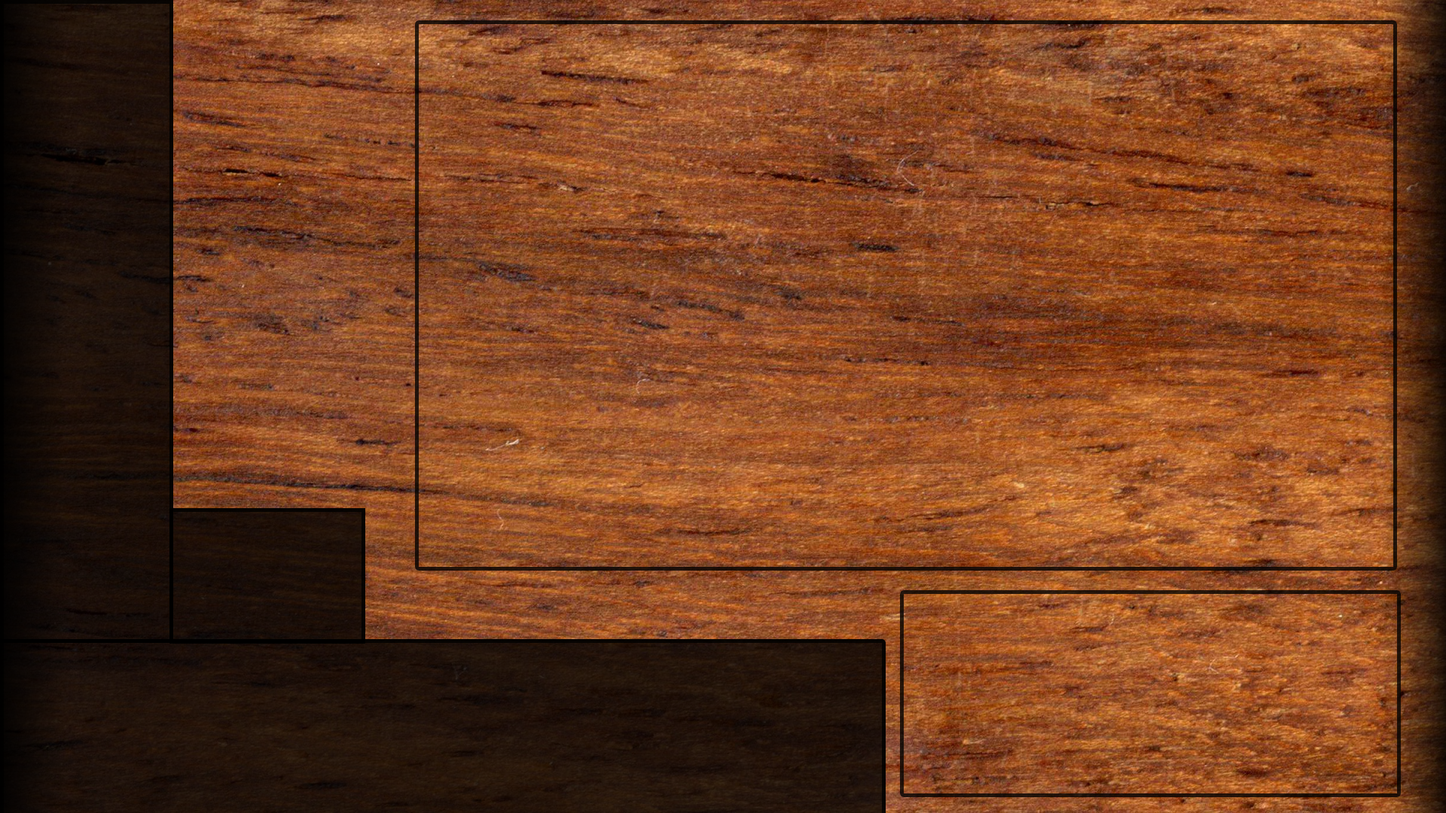
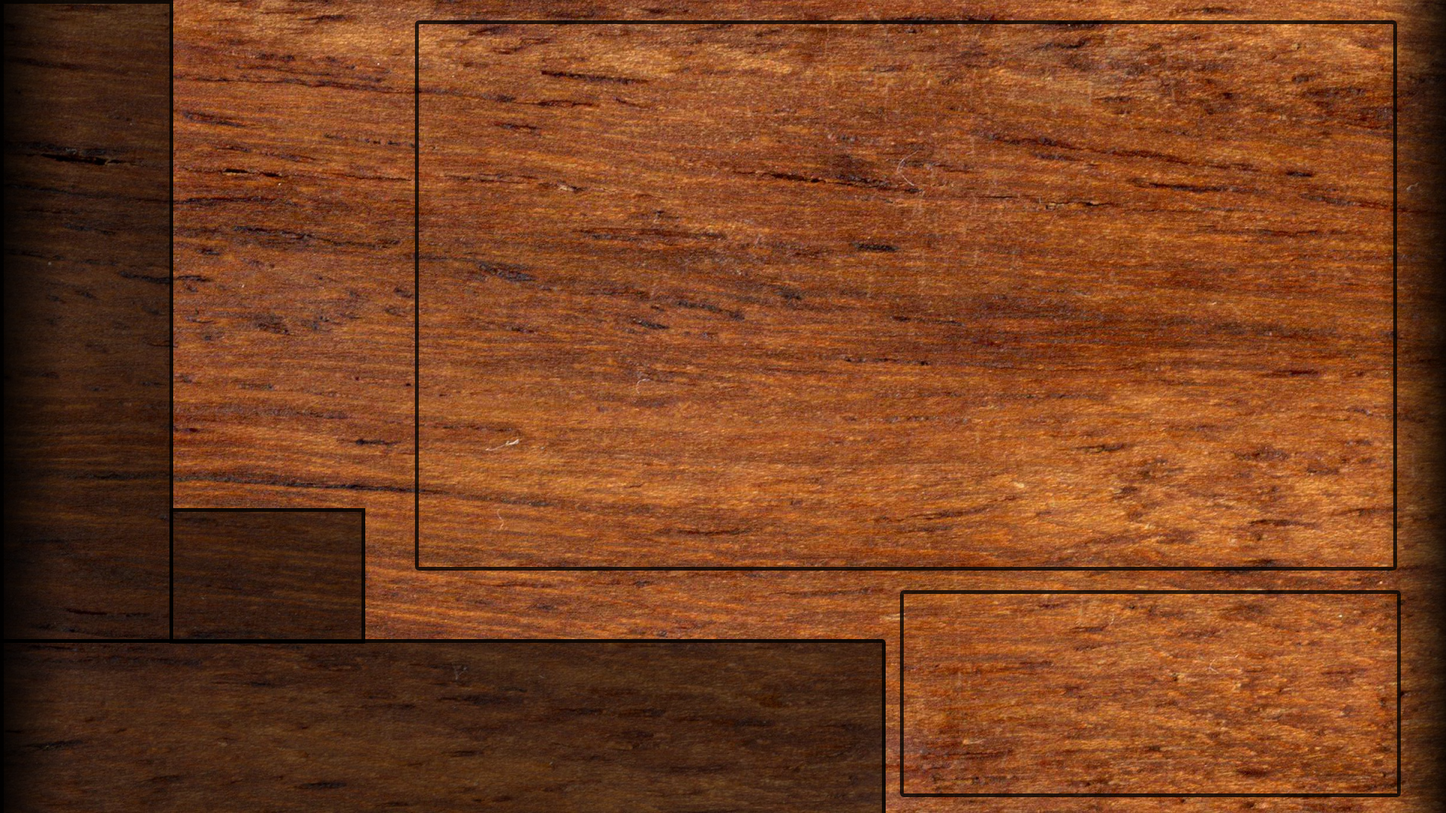
Lots of updates
* Fix cycleplayerturn not working over RMI
* Diff state to see if we need to switch scenes now works consistently
* Update gamescreen background to be a bit lighter
* Add mechanics to see if it's the last turn, and when the last turn is over
* go to finished screen (finish screen NYI)
* Don't initialize the GameState when instantiating a GameStore object
* Optimize routestore a bit
* Stop logging card path every time for PlayerCard component
* Change access level for some methods

Changed region(s): [[0.0, 0.0, 0.625, 1.0]]

diff --git a/src/main/java/client/GameClient.java b/src/main/java/client/GameClient.java
@@ -5,7 +5,6 @@ import game.GameStore;
 import game.GameStoreProvider;
 import game.actions.Action;
 import game.actions.AddPlayerAction;
-import game.actions.ChangeStateAction;
 import javafx.application.Platform;
 import org.apache.logging.log4j.LogManager;
 import org.apache.logging.log4j.Logger;
@@ -30,7 +29,7 @@ public class GameClient extends UnicastRemoteObject implements GameStoreClient {
     private transient SceneListener sceneListener;
     private transient Action lastAction;
 
-    public GameClient(String ip, SceneListener sceneListener) throws RemoteException {
+    GameClient(String ip, SceneListener sceneListener) throws RemoteException {
         super();
         this.sceneListener = sceneListener;
 
@@ -44,7 +43,7 @@ public class GameClient extends UnicastRemoteObject implements GameStoreClient {
 
     }
 
-    public GameClient(GameStoreServer server, SceneListener sceneListener) throws RemoteException {
+    GameClient(GameStoreServer server, SceneListener sceneListener) throws RemoteException {
         super();
         this.sceneListener = sceneListener;
 
@@ -62,39 +61,38 @@ public class GameClient extends UnicastRemoteObject implements GameStoreClient {
     public void onGameStoreReceived(GameStore newStore) {
         Log.debug("Received new gamestore");
 
+        // Over RMI this would return false, on the host this returns true.. :@     Solution: Maybe create a method to clone the gamestore
+        Log.debug("Is the newStore the same as the old one? this is weird prob: {}", newStore == storeObservable.getValue());
+
         if (GameStoreProvider.getPlayer() != null) {
             // Update the player on the GameStoreProvider
             GameStoreProvider.setPlayer(newStore.getPlayerById(GameStoreProvider.getPlayer().getId()));
             Log.debug("Updated player");
         }
 
-        if (newStore.getGameState() != storeObservable.getValue().getGameState()) {
-            Log.debug("Received new state, switching..");
-            sceneListener.onSceneChange(newStore.getGameState());
-        }
 
         // Process previous actions' response
         if (lastAction != null) {
             Platform.runLater(() -> {
-                processLastActionResponse();
+                processLastActionResponse(newStore);
                 lastAction = null;
             });
         }
 
         // finally
+        sceneListener.updateSceneState(newStore.getGameState());
         storeObservable.setValue(newStore);
     }
 
-    private void processLastActionResponse() {
-        var store = storeObservable.getValue();
-
+    private void processLastActionResponse(GameStore store) {
         if (lastAction instanceof AddPlayerAction) {
             var players = store.getPlayers();
             GameStoreProvider.setPlayer(players.get(players.size() - 1));
-            sceneListener.onSceneChange(GameState.LOBBY);
-        } else if (lastAction instanceof ChangeStateAction) {
-            sceneListener.onSceneChange(store.getGameState());
+            sceneListener.updateSceneState(GameState.LOBBY);
         }
+//         else if (lastAction instanceof ChangeStateAction) {
+//            sceneListener.updateSceneState(store.getGameState());
+//        }
     }
 
     @Override

diff --git a/src/main/java/game/actions/BuildRouteAction.java b/src/main/java/game/actions/BuildRouteAction.java
@@ -2,7 +2,6 @@ package game.actions;
 
 import client.ui.MessagesControllerProvider;
 import game.GameStore;
-import game.GameStoreProvider;
 import game.cards.CardStack;
 import game.cards.CardType;
 import game.player.Player;
@@ -40,16 +39,14 @@ public class BuildRouteAction implements Action {
                     extraCosts++;
                 }
             }
-            if (player.getCardStack().containsCards(costs)) {
-                MessagesControllerProvider.getMessageController().setBuildRouteWarning("Extra costs for tunnel: " + extraCosts);
-                build(route, player);
-            } else {
-                MessagesControllerProvider.getMessageController().setBuildRouteWarning("Extra costs for tunnel: " + extraCosts);
-            }
-        } else {
+            MessagesControllerProvider.getMessageController().setBuildRouteWarning("Extra costs for tunnel: " + extraCosts);
+        }
+
+        if (player.getCardStack().containsCards(costs)) {
             build(route, player);
         }
-        GameStoreProvider.getStore().cyclePlayerTurn();
+
+        store.cyclePlayerTurn();
     }
 
     @Override
@@ -58,9 +55,9 @@ public class BuildRouteAction implements Action {
     }
 
     private void build(Route route, Player player) throws Exception {
-            player.getCardStack().takeCards(costs);
-            route.setOwner(player.getId());
-            player.givePoints(route.getPoints());
-            player.takeTrains(route.getLength());
+        player.getCardStack().takeCards(costs);
+        route.setOwner(player.getId());
+        player.givePoints(route.getPoints());
+        player.takeTrains(route.getLength());
     }
 }

diff --git a/src/main/java/game/routecards/RouteStore.java b/src/main/java/game/routecards/RouteStore.java
@@ -6,7 +6,6 @@ import org.apache.logging.log4j.LogManager;
 import org.apache.logging.log4j.Logger;
 import org.w3c.dom.Document;
 import org.w3c.dom.Element;
-import org.w3c.dom.Node;
 import org.w3c.dom.NodeList;
 
 import javax.xml.parsers.DocumentBuilder;
@@ -22,11 +21,13 @@ public class RouteStore implements Serializable {
     private List<Route> routeList = new ArrayList<>();
 
     public RouteStore() {
-        InputStream stream = getClass().getResourceAsStream("/string/gameRoutes.xml");
-        generateRoutes(stream);
+        if (routeList.isEmpty()) {
+            InputStream stream = getClass().getResourceAsStream("/string/gameRoutes.xml");
+            generateRoutes(stream);
+        }
     }
 
-    public void generateRoutes(InputStream stream) {
+    private void generateRoutes(InputStream stream) {
         try {
             DocumentBuilderFactory factory = DocumentBuilderFactory.newInstance();
             DocumentBuilder builder = factory.newDocumentBuilder();
@@ -35,8 +36,7 @@ public class RouteStore implements Serializable {
             NodeList routesList = rDoc.getElementsByTagName("route");
 
             for (int i = 0; i < routesList.getLength(); i++) {
-                Node nRoute = routesList.item(i);
-                Element eRoute = (Element) nRoute;
+                Element eRoute = (Element) routesList.item(i);
 
                 int id = Integer.parseInt(eRoute.getAttribute("id"));
                 int length = Integer.parseInt(eRoute.getElementsByTagName("length").item(0).getTextContent());

diff --git a/src/main/java/server/Server.java b/src/main/java/server/Server.java
@@ -1,6 +1,7 @@
 package server;
 
 import client.GameStoreClient;
+import game.GameState;
 import game.GameStore;
 import game.actions.Action;
 import org.apache.logging.log4j.LogManager;
@@ -62,11 +63,32 @@ public class Server extends UnicastRemoteObject implements GameStoreServer {
     public synchronized void onActionReceived(Action action) {
         try {
             action.executeAction(gameStore);
+
+            doSideEffects(action);
+
             Log.debug("Executed action");
             notifyListeners();
             Log.debug("Notified listeners");
         } catch (Exception ex) {
             Log.error("Server error while executing action", ex);
+        }
+    }
+
+    private void doSideEffects(Action action) {
+        // Only do side effects for actions that are caused by a "player"
+        if (action.getPlayerId() == -1) {
+            return;
+        }
+
+        if (gameStore.shouldGoToLastTurn(action.getPlayerId())) {
+            // When the player that did his turn has 2 ore less trainscarts we should set the last turn param
+            Log.info("Player has 2 or less carts left.. Going to final round..");
+            gameStore.setLastTurn(action.getPlayerId());
+        } else if (gameStore.getLastTurn() == action.getPlayerId()) {
+            // Else if the action player id is the same as the id of the last turn player
+            // We should go to finish.
+            Log.info("Going to finished state!");
+            gameStore.setGameState(GameState.FINISHED);
         }
     }
 

diff --git a/src/main/java/game/GameStore.java b/src/main/java/game/GameStore.java
@@ -18,12 +18,13 @@ import java.util.List;
  * @author Wesley Klop
  */
 public class GameStore implements Serializable {
-    private GameState gameState = GameState.LOBBY;
+    private GameState gameState;
     private List<Player> players = new ArrayList<>();
     private CardStackController cardStackController = new CardStackController();
     private SelectableRouteCards selectableRouteCards = new SelectableRouteCards(new RouteCardStackBank());
     private RouteStore routeStore = new RouteStore();
     private int playersTurn = 0;
+    private int lastTurn = -1;
     private final String serverIp;
 
     public GameStore(String ip) {
@@ -77,6 +78,18 @@ public class GameStore implements Serializable {
 
     public String getServerIp() {
         return serverIp;
+    }
+
+    public int getLastTurn() {
+        return lastTurn;
+    }
+
+    public void setLastTurn(int lastTurn) {
+        this.lastTurn = lastTurn;
+    }
+
+    public boolean shouldGoToLastTurn(int playerId) {
+        return getPlayerById(playerId).getTraincarts() <= 2 && lastTurn == -1;
     }
 
     //TODO

diff --git a/src/main/java/util/Observable.java b/src/main/java/util/Observable.java
@@ -1,5 +1,8 @@
 package util;
 
+import org.apache.logging.log4j.LogManager;
+import org.apache.logging.log4j.Logger;
+
 import java.util.HashSet;
 import java.util.Set;
 
@@ -9,6 +12,7 @@ import java.util.Set;
  * @author Wesley Klop
  */
 public class Observable<T> {
+    private static final Logger Log = LogManager.getLogger(Observable.class);
     //    private Set<Observer<T>> observers = Collections.newSetFromMap(new WeakHashMap<>());
     private Set<Observer<T>> observers = new HashSet<>();
 
@@ -55,6 +59,7 @@ public class Observable<T> {
      * @param value the new value
      */
     public void setValue(T value) {
+        Log.debug("Updating observable with new value..");
         currentValue = value;
         notifyObservers();
     }
@@ -62,7 +67,7 @@ public class Observable<T> {
     /**
      * Notify all observers
      */
-    public void notifyObservers() {
+    private void notifyObservers() {
         for (Observer<T> observer : observers) {
             if (observer != null)
                 observer.onUpdate(currentValue);

diff --git a/src/main/java/client/ui/components/PlayerCard.java b/src/main/java/client/ui/components/PlayerCard.java
@@ -9,8 +9,6 @@ import javafx.scene.control.Label;
 import javafx.scene.image.Image;
 import javafx.scene.image.ImageView;
 import javafx.scene.layout.VBox;
-import org.apache.logging.log4j.LogManager;
-import org.apache.logging.log4j.Logger;
 
 import java.io.IOException;
 
@@ -18,7 +16,7 @@ import java.io.IOException;
  * @author Wesley Klop
  */
 public class PlayerCard extends VBox {
-    private static final Logger Log = LogManager.getLogger(PlayerCard.class);
+    //    private static final Logger Log = LogManager.getLogger(PlayerCard.class);
     private final Card card;
     private int count;
 
@@ -46,7 +44,7 @@ public class PlayerCard extends VBox {
     private void initialize() {
         var path = card.getPath();
         var stream = getClass().getResourceAsStream(path);
-        Log.debug("Image path: {}", path);
+//        Log.debug("Image path: {}", path);
         image.setImage(new Image(stream));
         amount.setText(String.valueOf(count));
     }

diff --git a/src/main/java/client/Client.java b/src/main/java/client/Client.java
@@ -29,6 +29,8 @@ public class Client extends Application implements SceneListener {
     private Stage stage;
     private Scene scene;
     private StartupController rootPaneController;
+    // Try to fix scene diffing
+    private GameState currentState;
 
     public static void main(String[] args) {
         launch(args);
@@ -94,8 +96,13 @@ public class Client extends Application implements SceneListener {
     }
 
     @Override
-    public void onSceneChange(GameState state) {
-        Log.debug("Got new scene {}", state);
+    public void updateSceneState(GameState state) {
+        if (this.currentState == state) {
+//            Log.warn("I think we're going to set the new scene twice.. {} to {}", this.currentState, state);
+            return;
+        }
+        Log.info("!!! CHANGING SCENE TO {} !!!", state);
+        currentState = state;
 
         Parent newRoot = null;
         String newTitle = null;

diff --git a/src/main/java/client/ui/GameCostsController.java b/src/main/java/client/ui/GameCostsController.java
@@ -11,6 +11,7 @@ import game.routecards.Route;
 import game.routecards.RouteType;
 import javafx.animation.Transition;
 import javafx.animation.TranslateTransition;
+import javafx.application.Platform;
 import javafx.fxml.FXML;
 import javafx.scene.control.Button;
 import javafx.scene.control.Label;
@@ -131,7 +132,7 @@ public class GameCostsController {
         return player.getCardStack().containsCards(route.getCostsAsCardStack()) && !route.hasOwner();
     }
 
-    public void setRouteWarning(String text) {
-        tunnelWarning.setText(text);
+    void setRouteWarning(String text) {
+        Platform.runLater(() -> tunnelWarning.setText(text));
     }
 }

diff --git a/src/main/java/game/actions/SelectRouteCardsAction.java b/src/main/java/game/actions/SelectRouteCardsAction.java
@@ -1,7 +1,6 @@
 package game.actions;
 
 import game.GameStore;
-import game.GameStoreProvider;
 import game.routecards.RouteCard;
 
 import java.util.List;
@@ -25,7 +24,7 @@ public class SelectRouteCardsAction implements Action {
             player.addRouteCard(card);
         }
         store.getSelectableRouteCards().populatePickableCards();
-        GameStoreProvider.getStore().cyclePlayerTurn();
+        store.cyclePlayerTurn();
     }
 
     @Override

diff --git a/src/main/java/game/actions/GetCardAction.java b/src/main/java/game/actions/GetCardAction.java
@@ -1,7 +1,6 @@
 package game.actions;
 
 import game.GameStore;
-import game.GameStoreProvider;
 import game.cards.Card;
 
 /**
@@ -34,7 +33,7 @@ public class GetCardAction implements Action {
             }
             store.getPlayerById(playerId).getCardStack().addCard(card);
         }
-        GameStoreProvider.getStore().cyclePlayerTurn();
+        store.cyclePlayerTurn();
     }
 
     @Override

diff --git a/src/main/java/game/cards/CardStack.java b/src/main/java/game/cards/CardStack.java
@@ -115,7 +115,6 @@ public class CardStack extends EnumMap<CardType, Integer> implements Serializabl
         for (CardStack.Entry<CardType, Integer> entry : cards.entrySet()) {
             for (int i = 0; i < entry.getValue(); i++) {
                 this.getCard(entry.getKey());
-                System.out.println("Taking card from the stack");
             }
         }
     }
